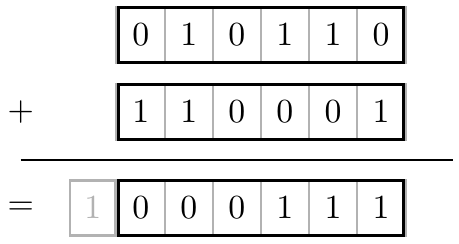
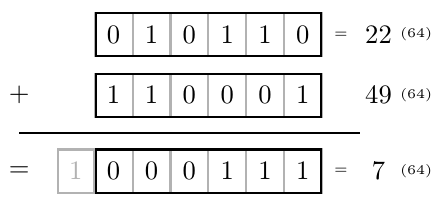
Data - some global corrections

diff --git a/prog/data/encoding.md b/prog/data/encoding.md
@@ -8,20 +8,22 @@
 - Le **byte** ne faisait pas 8 bit (mais l'octet fait 8 :) )
 
 - [ASCII]: 7 bits, c'est largement assez pour encoder tout le
-  clavier américain + 32 caractères de controles.
-  La façon dont la table est organisé est super maline (des puissance de 2 partout).
+  clavier américain + 32 caractères de contrôle.
+  La façon dont la table est organisée est super maline
+  (des puissance de 2 partout).
 
 - Les français veulent leur accents, les grecs (ou les russes) leurs
-  alphabet. Principe des code page. [ISO8859] -15 latin9 (fr) -5 cyrillique
+  alphabet. Principe des code page. \
+  Exemple : [ISO8859] -15 latin9 (fr) -5 cyrillique
 
 - Les chinois arrivent ... la technique ne passe pas a l'échelle
 
 - [Unicode], et ses mises en pratiques raisonnables (UTF8/16/32).
 
-- UTF8, characteres sur un nombre variable d'octet.
-  La table ascii est sur un octet et ne bouge pas.  Si le bit de poit fort est
-  à `1`, le nombre de `1` précédent le premier zéro donne le nombre d'octet,
-  les octets suivant comment tous par `10`
+- UTF8, caractères sur un nombre variable d'octets.
+  La table ASCII est sur un octet et ne bouge pas. Si le bit de poids fort est
+  à `1`, le nombre de `1` précédent le premier zéro donne le nombre d'octets,
+  le caractère est codé après le premier `0`
 
 
 [ASCII]: https://fr.wikipedia.org/wiki/American_Standard_Code_for_Information_Interchange
@@ -33,12 +35,13 @@ le mot CodePage vient du numéro de page du manuel dans laqulle la table etait
 imprimé (chez ibm). Les codepage les plus visible sont ceux de microsoft : 437
 américain/850 latin1
 Montrer le AltGr + 225 pour faire un ß
+Un lien qui m'a aidé : https://www.figer.com/Publications/utf8.htm (DR)
 
 --
 
 ### Encodage chaines de caractère : Exercice
 
-recuperer avec clic droit [fr.txt](data/fr.txt) [en.txt](data/en.txt)
+récupérer avec clic droit [fr.txt](data/fr.txt) [en.txt](data/en.txt)
 
 ```bash
 cat fr.txt
@@ -59,7 +62,7 @@ en [python](data/poem.py)
 > Commencer par parler de Gulliver
 
 Si on considère un octet comme indivisible, la question du comment est-il
-vraiment en mémoire (au niveau du transistor)ne importe peu.
+vraiment en mémoire (au niveau du transistor) importe peu.
 
 A partir des `short` (16 bit), la question se pose. Poids fort, ou poids faible
 devant. L'un est-il mieux que l'autre ? (C'est très subjectif). Chaque fondeur
@@ -92,4 +95,3 @@ en [python](data/signal.py)
 - Hommage à la théorie de l'info.
 
 - Destructif, non destructif
-

diff --git a/prog/data/floats.md b/prog/data/floats.md
@@ -31,13 +31,14 @@ toujours égal à 1, ce qui permet de regagner le bit de signe.
 
 ### Nombres flottants : types
 
-| Paramètre   | Simple | Double |
+| Paramètre   | Simple préc. | Double préc.|
 |-------------|:------:|:------:|
 | p           | 24     | 53     |
 | e           | 8      | 11     |
 | Total :     | 32     | 64     |
 | Exposant :  | -128 à 127 | -1024 à 1023 |
 | Décimales : | $\approx 7$ | $\approx 15$ |
+||||
 
 --
 
@@ -57,16 +58,23 @@ $$ 0.1 = 0.0001100110011 ... $$
 
 ### Nombres flottants : erreurs
 
-Que se passe t'il si l'on additionne plusieurs fois 0.1 sur 32
+Que se passe t'il si l'on additionne plusieurs fois 1/10 sur 32
 bits ?
 
-| Valeur réelle  | Valeur flottante      |
+| Valeur réelle  | Valeur flottante sur 64 bits |
 | :----: | --------------------- |
-| 1/10 | 0.1000000014901161193 |
-| 2/10 | 0.2000000029802322387 |
-| 3/10 | 0.3000000119209289550 |
-| 4/10 | 0.4000000059604644775 |
-| 5/10 | 0.5000000000000000000 |
+| 1/10 | 0.10000000149011612 |
+| 2/10 | 0.20000000298023224 |
+| 3/10 | 0.30000001192092896 |
+| 4/10 | 0.40000000596046450 |
+| 5/10 | 0.50000000000000000 |
+
+```python
+f32 = np.float32(0.1)
+for i in range(5):
+    print(np.float64(f32))
+    f32 = f32 + np.float32(0.1)
+```
 
 --
 

diff --git a/prog/data/intro.md b/prog/data/intro.md
@@ -1,14 +1,15 @@
-## Introduction
+### Introduction
 
--  Pourquoi c'est aussi compliqué
+#### Un monde de données
 
-> Juste un tas de zéros et de uns
-> et il y a tant de choses à en faire
+- Existence d'une multitude de données à représenter&nbsp;: \
+nombres, textes, sons, images ... ([si vous manquez
+d'idées](https://en.wikipedia.org/wiki/List_of_file_formats))
 
-- Besoin d'organisation pour communiquer
+- A l'autre extrémité, un espace de stockage qui au fond est ne permet
+  d'écrire que des séquences de zéros et de uns.
 
---
+![IEEE754](data/images/data_repr.png) <!-- .element: class="stretch" style="max-width: 70%; vertical-align:top" -->
 
-### truc
-
-lalal
+- Besoin de *codages* pour transcrire, décoder, et échanger toutes ces
+  données.

diff --git a/prog/data/ints.md b/prog/data/ints.md
@@ -35,11 +35,10 @@ Et donc rend assez difficile de parler de représentation binaire modulo.
 
 </div>
 
+- Opérations `+`, `-` et `*` sont exactes modulo $2^n$.
 
-- Opérations sont exactes modulo $2^n$.
-
-- <span class="label">Python</span> Les opérations sur les entiers
-  sont exactes.
+- La division `//` effectue des arrondis&nbsp;: `7 // 3 == 2`  \
+  <span class="label">Python</span> Attention avec les négatifs &nbsp;: `(-7) // 3 == -3 `
 
 Note:
 L'addition représente 22 + 49 = 71 = 7 (64)
@@ -68,7 +67,8 @@ La multiplication représente 22 * 5 = 110 = 46 (64)
 
 ```python
 i = np.uint32(2**32-1) # 4294967295
-i = i + np.uint32(1)   # overflow
+np.binary_repr(i)      # '11111111111111111111111111111111'
+i = i + np.uint32(1)   # 0 (overflow)
 
 ```
 
